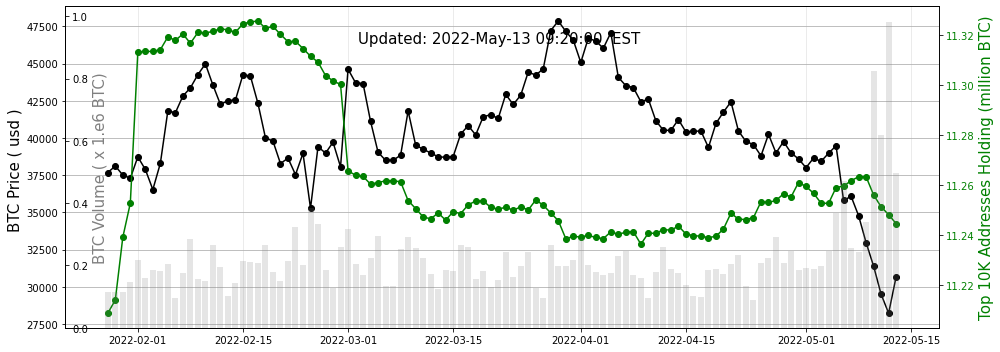
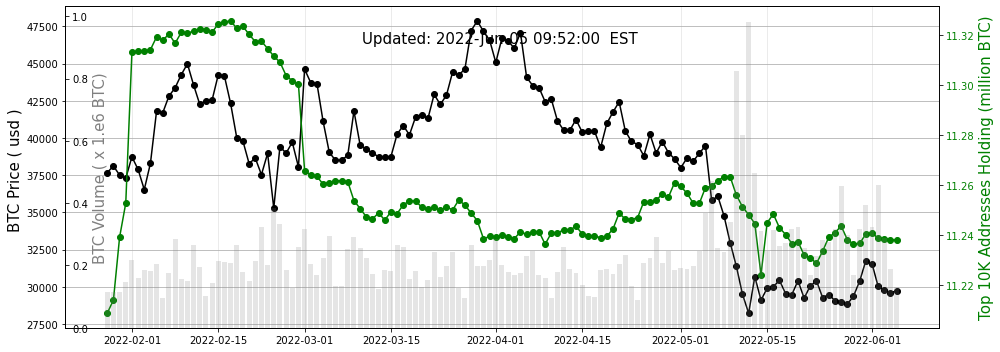
06052022

Changed region(s): [[0.093, 0.0312, 0.93, 1.0], [0.341, 0.0625, 0.651, 0.1875], [0.434, 0.4375, 0.465, 0.4688]]

diff --git a/bitcoin.html b/bitcoin.html
@@ -74,10 +74,10 @@
 				<!-- <p>This is 5-day forecasting sea ice concentration</p> -->
 
 				<div >
-					<img class="shib" alt="btc" src="./images/btc.png"/>  			
-						<p style="margin-bottom:4cm;text-align:center"> Figure 1. BTC price, volume, and top 10000 wallets holding </p> 
-					<img class="shib" alt="btc" src="./images/btc1k.png"/>  			
-						<p style="margin-bottom:4cm;text-align:center"> Figure 2. BTC price, volume, and top 1000 wallets holding </p>  
+					<img class="shib" alt="btc" src="./images/btc1k_10K.png"/>  			
+						<p style="margin-bottom:4cm;text-align:center"> Figure 1. BTC price, volume, and top 1000-10000 wallets holding </p> 
+					<img class="shib" alt="btc" src="./images/btc100_1K.png"/>  			
+						<p style="margin-bottom:4cm;text-align:center"> Figure 2. BTC price, volume, and top 100-1000 wallets holding </p>  
 					<img class="shib" alt="btc" src="./images/btc100.png"/>  			
 						<p style="margin-bottom:4cm;text-align:center"> Figure 3. BTC price, volume, and top 100 wallets holding </p>       
 					<img class="pie" alt="pie" src="./images/btcHoldingAllocation.png"/>			
